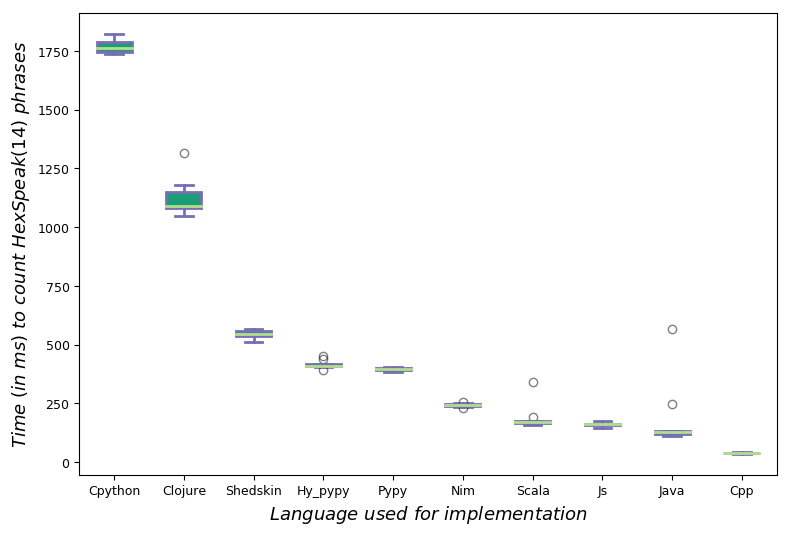
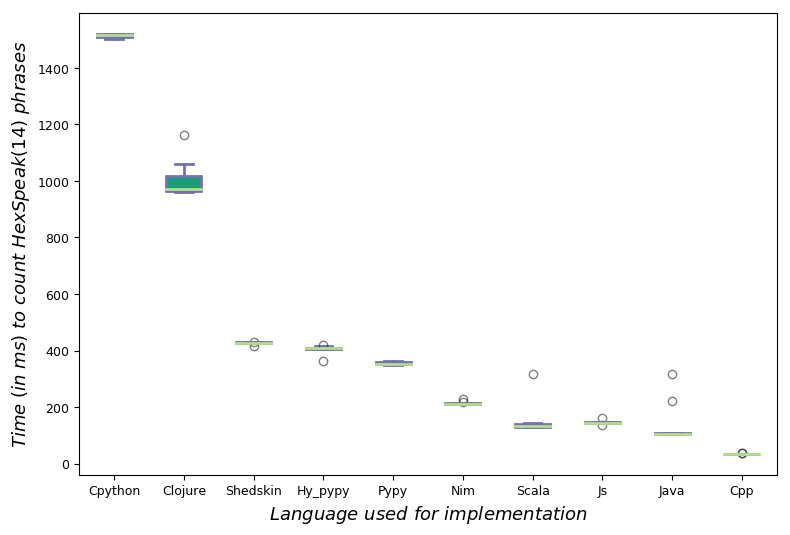
Updated benchmark results with latest versions of languages.

diff --git a/README.md b/README.md
@@ -170,16 +170,17 @@ return the same number (3020796) of different phrases of length 14,
 that can be formed from the 'ABCDEF' hex nibbles:
 
 | Language/Tool      | Execution time in ms, to count HexSpeak(14) |
-| ------------------ | ------------------------------------------- |
-| C++                |                                    34.96600 |
-| Java               |                                   104.00000 |
-| Scala              |                                   122.00000 |
-| Nim                |                                   232.00000 |
-| Python/ShedSkin    |                                   357.70300 |
-| Python/PyPy        |                                   520.08700 |
-| Clojure            |                                   911.20476 |
-| Python/HyLang/Pypy |                                  1467.77487 |
-| Python/CPython     |                                  2432.77812 |
+| ------------------ | ----------------------------------------- |
+| C++                |                                    34.920 |
+| Java               |                                   105.000 |
+| Scala              |                                   129.000 |
+| Javascript/NodeJS  |                                   136.000 |
+| Nim                |                                   212.000 |
+| Python/PyPy        |                                   348.324 |
+| Python/HyLang/Pypy |                                   361.314 |
+| Python/ShedSkin    |                                   414.723 |
+| Clojure            |                                   959.204 |
+| Python/CPython     |                                  1502.678 |
 
 Note that this is the exact same algorithm in all cases - a plain recursion
 visiting the *word space* of HexSpeak, in exactly the same order.
@@ -189,19 +190,18 @@ visiting the *word space* of HexSpeak, in exactly the same order.
 #### Clojure/PyPy
 
 Compared to execution with CPython, the Clojure implementation of the
-same algorithm runs 2.5x faster (when executed in a warmed-up JVM).
+same algorithm runs 1.5x faster (when executed in a warmed-up JVM).
 But since Clojure uses the JVM's JIT compilation, the proper comparison
 is with [PyPy](http://pypy.org/) - which amazingly, does a better job ;
-it runs 4.7x faster than CPython (almost 2x faster than Clojure).
+it runs 4.3x faster than CPython (almost 3x faster than Clojure).
 
 #### Python/Shedskin
 
 Since I got interested in speed, I then tried [ShedSkin](https://github.com/shedskin/shedskin),
-which converts the Python code to C++. It executed 40% faster than PyPy,
-or put simply, makes the same Python code 7x times faster than CPython
-(that is, 3x faster than Clojure!)
+which converts the Python code to C++. This used to run 40% faster than PyPy,
+but as of 2021/05, the optimisations in PyPy now beat ShedSkin.
 
-Very impressive result.
+Still, very impressive result *(compared to CPython)*.
 
 #### HyLang
 
@@ -215,8 +215,8 @@ standard library - but Hy uses Python's... so if you speak Python and you
 know Lisp syntax, you "instantly" speak Hy! :-)
 
 Since it came with hy2py (a .hy to .py converter), it also allowed me to
-execute the result under PyPy - which brought performance decently close
-to Clojure's (50% slower).
+execute the result under PyPy - which brought incredible performance with
+it, running 2.65x faster than Clojure.
 
 #### C++
 
@@ -231,9 +231,9 @@ though, C++ was also the only language where I had segfaults while coding.
 #### Java
 
 Don't ask - I was just curious. And it turns out that it runs an order of
-magnitude faster than Clojure (9x) - apparently recursively calling a
+magnitude faster than Clojure (9x). Apparently recursively calling a
 function millions of times is a pattern that is optimized a heck of a lot
-better in Java than it is in Clojure.
+better in Java than it is in Clojure...
 
 #### Scala
 
@@ -286,7 +286,7 @@ We can see the spread of the measurements by creating a Tukey boxplot...
 
     $ make boxplot
 
-**Oct 2018: Updated timings**:
+**Apr 2021: Updated timings**:
 
 ![Tukey boxplot of performance for the fast ones](https://raw.githubusercontent.com/ttsiodras/HexSpeak/master/contrib/boxplot.png "Tukey boxplot of performance for the fast ones")
 
@@ -299,9 +299,8 @@ I liked playing with Clojure, and loved playing with HyLang (since I didn't have
 to lookup any standard library - I already know Python's). To be honest, I have
 [a soft spot for all Lisps](https://www.thanassis.space/score4.html#lisp)
 so it was interesting to fiddle with them again. And even though this benchmark
-reminded me that *there's no free lunch* (i.e. Clojure is slower than Java,
-HyLang is slower than PyPy (and even more so for ShedSkin), still, I enjoyed
-playing with Lisp syntax again. Didn't do any macros this time :-)
+reminded me that *there's no free lunch* (i.e. Clojure is slower than Java),
+I enjoyed playing with Lisp syntax again. Didn't do any macros this time :-)
 
 Clojure in particular nudges towards an immutable way of working with the data,
 which shields your code from tons of bugs (e.g. contrast
